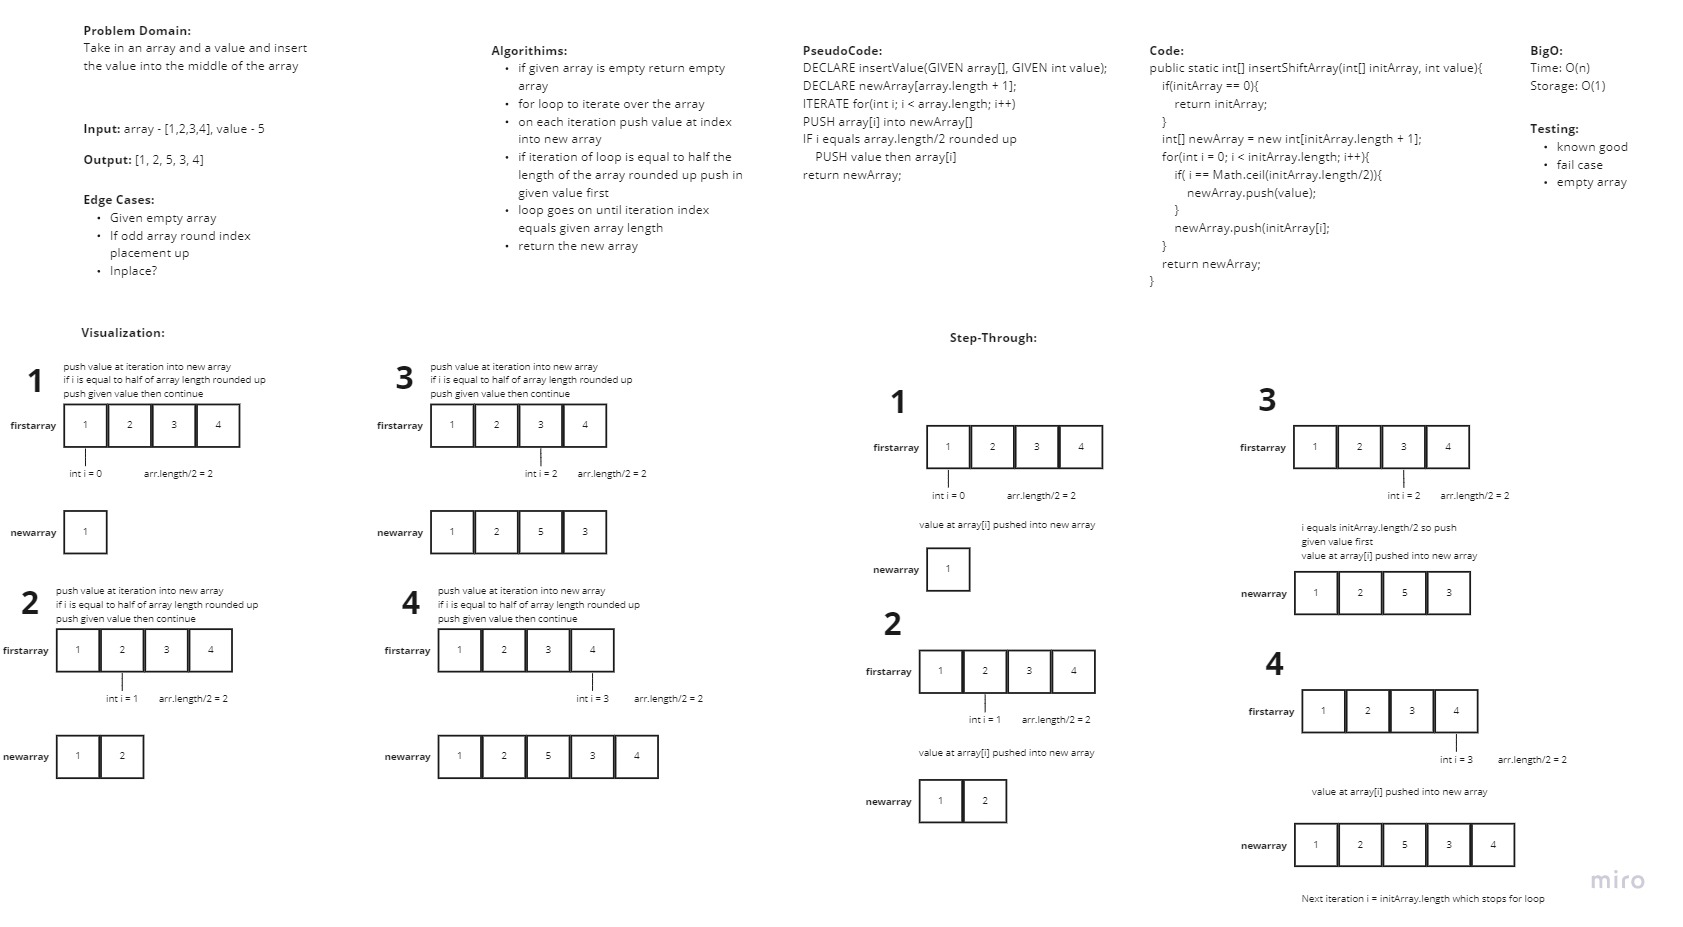
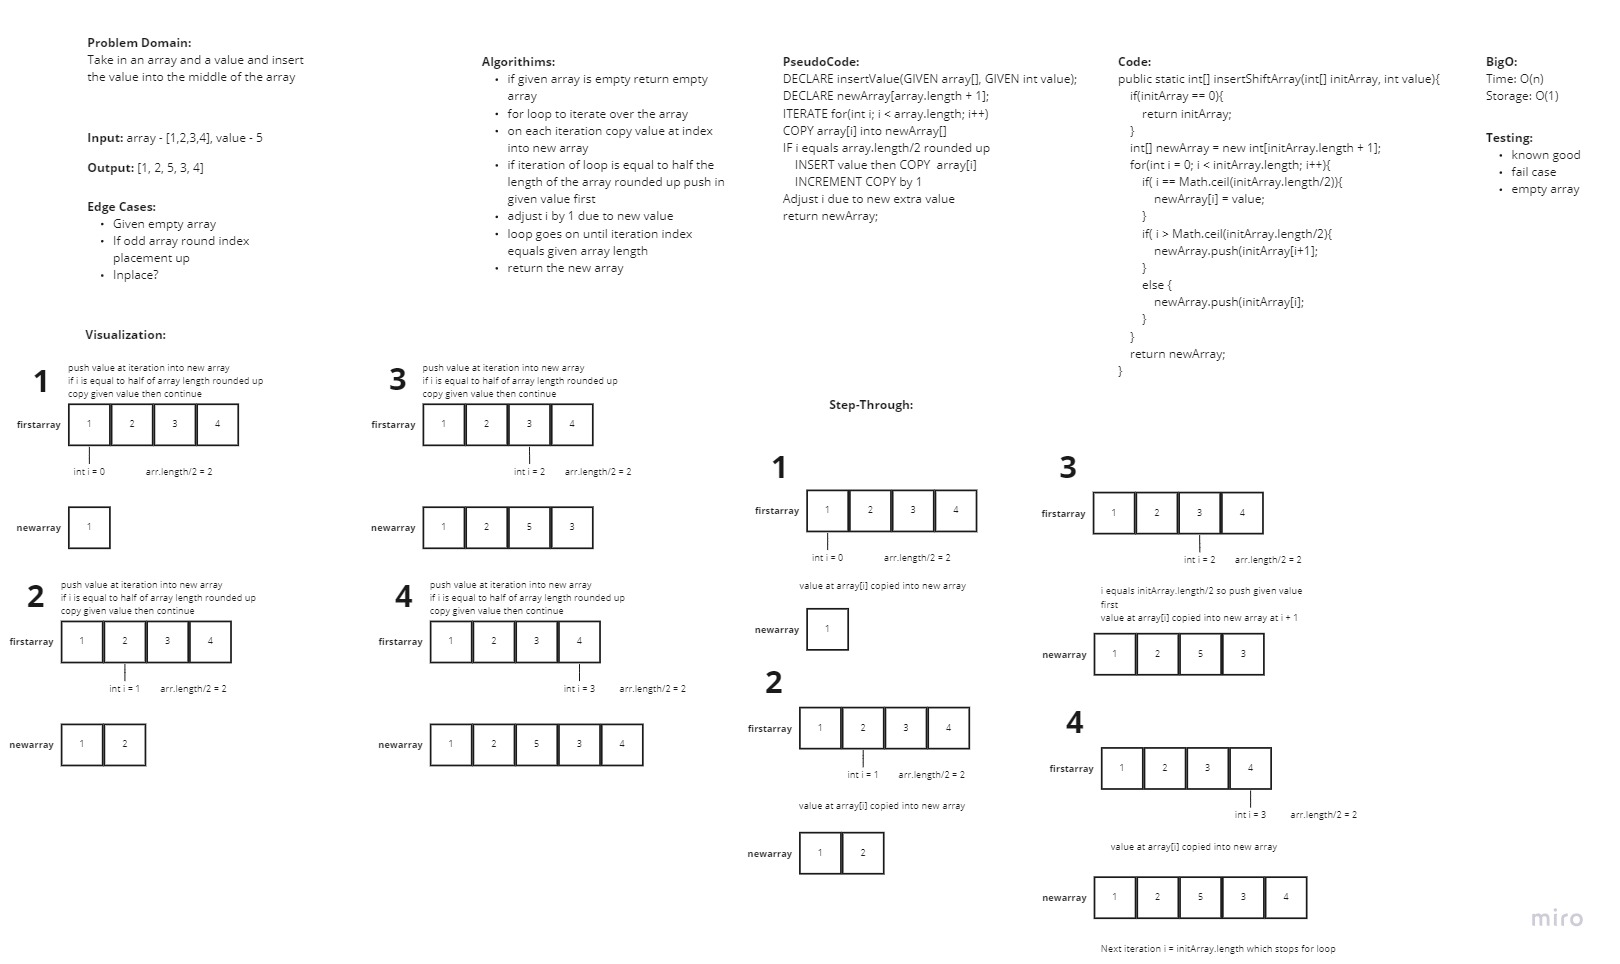
Added Whiteboard for Code Challenge 02

diff --git a/java/codechallenge02/README.md b/java/codechallenge02/README.md
@@ -2,10 +2,10 @@
 
 In this challenge the problem domain was to take a given array and insert the given value into the center of the array
 
-## WhiteBoard Process 02
+## WhiteBoard Process
 
-![Code Challenge 01](/java/imgs/CodeChallenge02.jpg)
+![Code Challenge 01](../imgs/CodeChallenge02.jpg)
 
-## Approach & Efficiency 02
+## Approach & Efficiency
 
-In this approach I decided to create a new array that will take in the values of the initial array. I iterated over the initial array and pushed the value at that iteration into the new array. If the iteration equaled to half the initial array length rounded up then the given value was pushed into first then continued on. Once the loop ended the function then returned the new array. The effieciency should be O(n) timing since a single for loop was used.
+In this approach I decided to create a new array that will take in the values of the initial array. I iterated over the initial array and copied the values at that iteration into the new array. If the iteration equaled to half the initial array length rounded up then the given value was pushed into first then continued on. After adding the extra value I had to take into account the shift to the right and added 1 to the future indexes. Once the loop ended the function then returned the new array. The efficiency should be O(n) timing since a single for loop was used.

diff --git a/java/codechallenge01/README.md b/java/codechallenge01/README.md
@@ -2,9 +2,9 @@
 
 In this challenge the problem domain was to take a given array and reverse the values inside
 
-## WhiteBoard Process 01
+## WhiteBoard Process
 
-![Code Challenge 01](/java/imgs/CodeChallenge01.jpg)
+![Code Challenge 01](../imgs/CodeChallenge01.jpg)
 
 ## Approach & Efficiency
 
